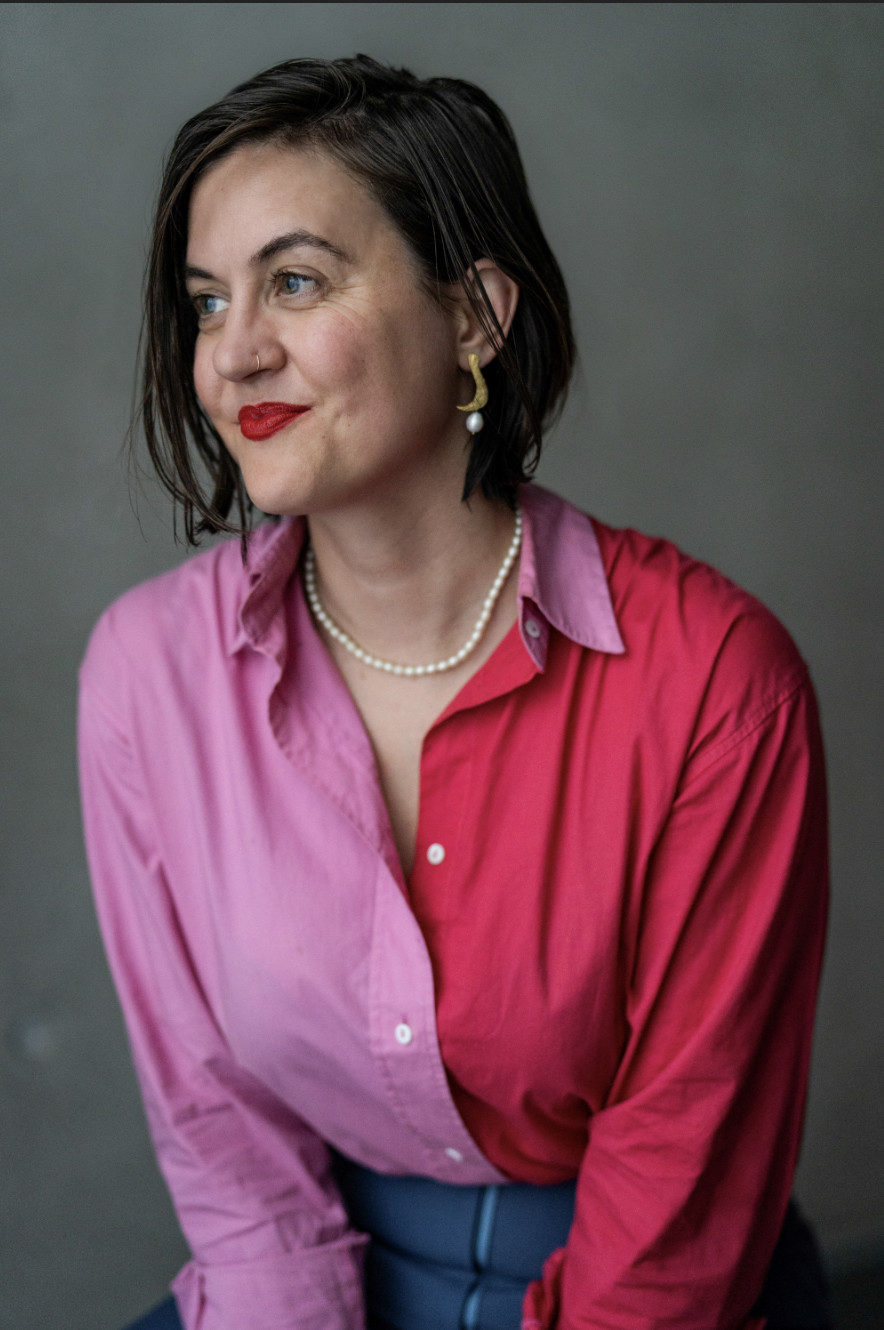
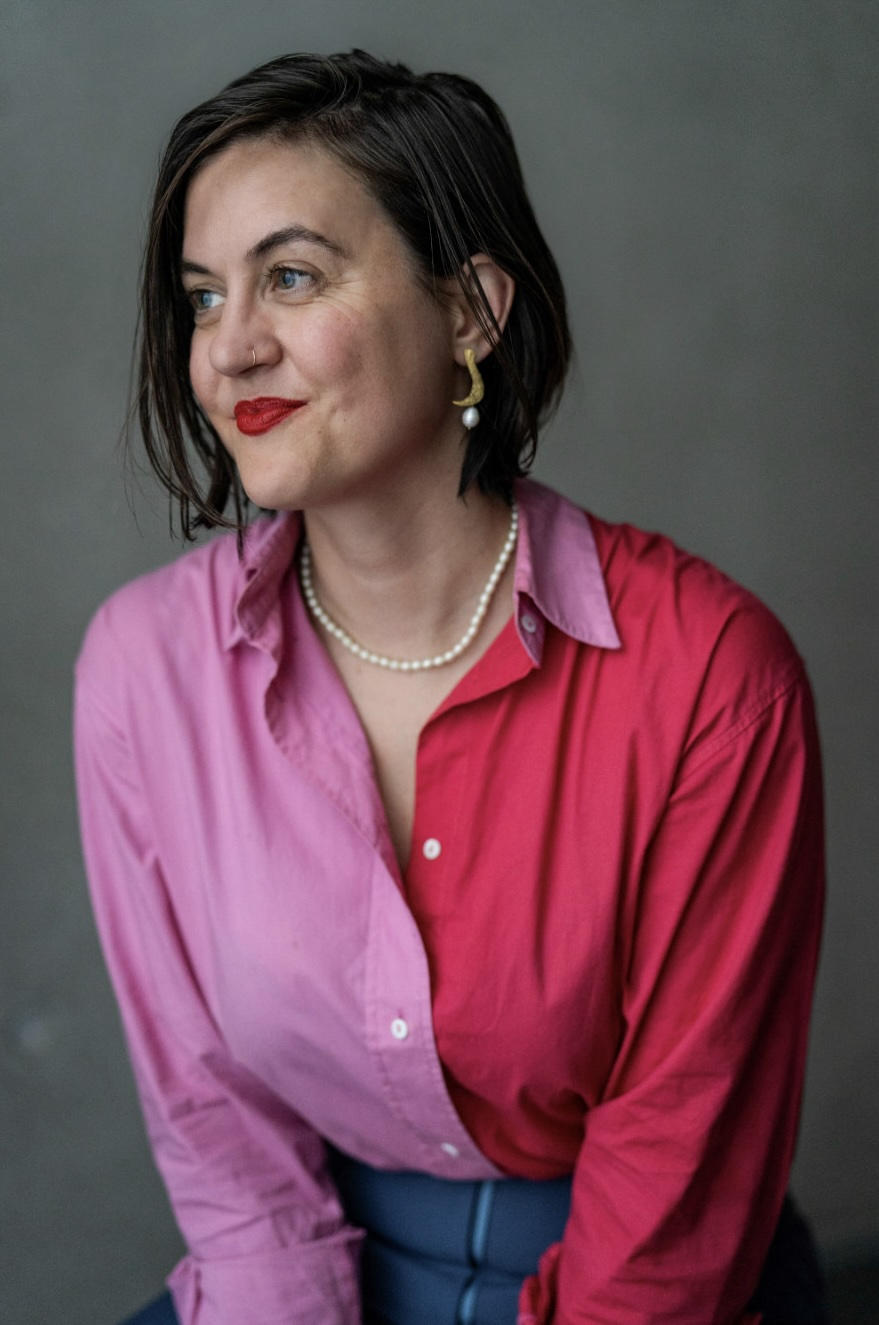
Taking off black bar off photo

diff --git a/index.html b/index.html
@@ -14,7 +14,7 @@
     <img src="images/rosface.jpg" alt="Rosalind Croad, in bright pink and red shirt, smiling toward the left" loading="lazy">
     <p>Hi, I'm Ros</p>
     <p>Me (in short)</p>
-    <p>→ I founded an events company that made $27M over five years.</p>
+    <p>→ I co-founded an events company that made $27M over five years.</p>
     <p>→ Then I burned out. So, I left everything to design my life with intention, around creativity and connection.</p>
     <p>→ Today, (professionally) I'm a producer and facilitator, and (amateurly, but eagerly) I code. </p>
     <p>→ I study philosophy and consciousness.</p>
